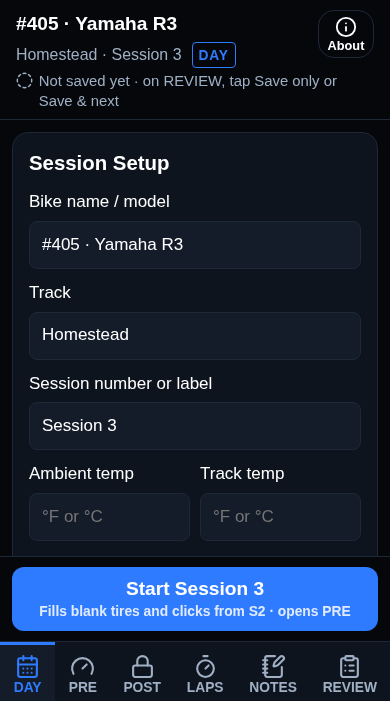
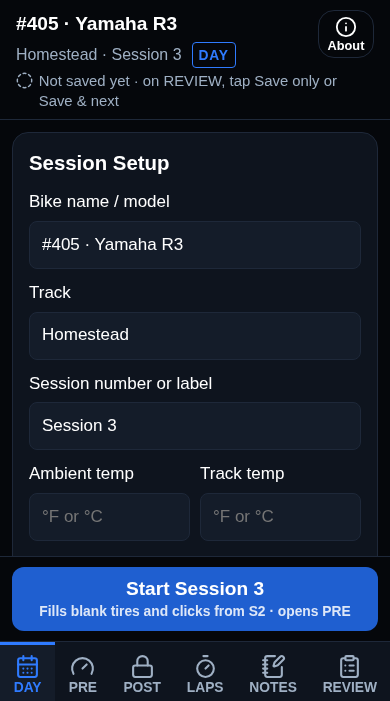
Give the solid primary its own token, and guard the fit in a browser
White on the dark theme's --blue was 3.89:1 on the solid transition button,
under the 4.5 floor. --mt-primary-fill carries the solid surface instead:
--blue in bright, #1F5FD0 in dark, which measures 5.82:1. --blue itself is
unchanged and still draws the focus ring, the active-stage line and blue text,
where it never sits behind white. Eleven fills moved; every remaining use of
--mt-primary is a border, an outline or text. All eight contrast pairs now
pass, the worst being bright's primary button at 5.13:1.

The fit test runs a real browser at 390x701 - the usable height of a tab, not
the screen - and fails if PRE's REAR row or open controls fall under the dock,
in either theme. PRE has zero pixels to spare there, and three rounds of design
work have each come within a few pixels of losing it, with nothing but a manual
measurement to catch it. Adding 80px to a margin fails the test in both themes.

The sheet's header now documents all three tokens this file adds beyond Pro's,
so Pro inherits the reasoning along with the values.

Claude-Session: https://claude.ai/code/session_01LmzceTAsvGjNnxbDzcXJyd

Changed region(s): [[0.0308, 0.8088, 0.9846, 0.8987]]

diff --git a/public/styles.css b/public/styles.css
@@ -44,7 +44,7 @@ main {
 .brand { display: flex; align-items: center; gap: 10px; }
 .brand-mark {
   width: 14px; height: 14px; border-radius: 3px;
-  background: var(--mt-primary);
+  background: var(--mt-primary-fill);
   box-shadow: 0 0 0 3px var(--mt-surface);
 }
 .brand-name { font-family: var(--mt-font); font-weight: 700; letter-spacing: 0.02em; font-size: 1.1rem; }
@@ -98,7 +98,7 @@ main {
   cursor: pointer;
 }
 .tab[aria-selected="true"] {
-  background: var(--mt-primary);
+  background: var(--mt-primary-fill);
   color: var(--mt-ground);
   border-color: var(--mt-primary);
 }
@@ -260,7 +260,7 @@ button {
   overflow-wrap: break-word;
 }
 .btn-primary {
-  background: var(--mt-primary);
+  background: var(--mt-primary-fill);
   color: var(--mt-ground);
 }
 .btn-primary:active { background: var(--mt-primary-hover); }
@@ -295,7 +295,7 @@ button {
   padding: 10px 16px;
   border: 1px solid transparent;
   border-radius: 12px;
-  background: var(--mt-primary);
+  background: var(--mt-primary-fill);
   color: var(--mt-ground);
   cursor: pointer;
   text-align: center;
@@ -618,7 +618,7 @@ select:focus { outline: 2px solid var(--mt-primary); border-color: var(--mt-prim
 .wl-shell { width: min(92vw, 560px); margin: 32px auto; }
 .wl-header { display: flex; align-items: center; gap: 12px; margin-bottom: 18px; }
 .wl-badge { border: 1px solid var(--mt-brand); color: var(--mt-brand); border-radius: 999px; padding: 2px 10px; font-size: .8rem; font-weight: 600; white-space: nowrap; }
-.wl-staging { background: var(--mt-primary); color: var(--mt-text-on-primary); font-weight: 700; text-align: center; padding: 6px 10px; border-radius: 6px; }
+.wl-staging { background: var(--mt-primary-fill); color: var(--mt-text-on-primary); font-weight: 700; text-align: center; padding: 6px 10px; border-radius: 6px; }
 .wl-footer { margin-top: 28px; padding-top: 14px; border-top: 1px solid var(--mt-border); font-size: .9rem; display: flex; gap: 18px; }
 
 .wl-availability { border: 1px solid var(--mt-border); border-radius: 8px; padding: 14px 16px; margin: 18px 0; }
@@ -666,7 +666,7 @@ select:focus { outline: 2px solid var(--mt-primary); border-color: var(--mt-prim
 .feedback-status.warn { color: var(--mt-warn); }
 .feedback-actions { margin-top: 16px; }
 #feedback-submit {
-  background: var(--mt-primary); color: var(--mt-text-on-primary); border: none; border-radius: 6px;
+  background: var(--mt-primary-fill); color: var(--mt-text-on-primary); border: none; border-radius: 6px;
   padding: 9px 18px; font-size: 1rem; font-weight: 600; cursor: pointer;
 }
 #feedback-submit:disabled { opacity: .6; cursor: default; }
@@ -1260,7 +1260,7 @@ body { padding-bottom: calc(var(--stage-bar-h) + var(--dock-h) + env(safe-area-i
   height: 1em;
   margin-right: 6px;
   vertical-align: -0.1em;
-  background: var(--mt-primary);
+  background: var(--mt-primary-fill);
   -webkit-mask: url(../icons/check.svg) center / contain no-repeat;
   mask: url(../icons/check.svg) center / contain no-repeat;
 }
@@ -1349,7 +1349,7 @@ body { padding-bottom: calc(var(--stage-bar-h) + var(--dock-h) + env(safe-area-i
   cursor: pointer;
 }
 .unit-opt + .unit-opt { border-left: 1px solid var(--mt-text-muted); }
-.unit-opt.is-on { background: var(--mt-primary); color: var(--mt-ground); }
+.unit-opt.is-on { background: var(--mt-primary-fill); color: var(--mt-ground); }
 .susp-done { margin-bottom: 14px; }
 /* Undo sits where the dock button would, at the same height. */
 .undo-post { margin: 0; }
@@ -1392,7 +1392,7 @@ body { padding-bottom: calc(var(--stage-bar-h) + var(--dock-h) + env(safe-area-i
   transition: left 120ms linear, background 120ms linear;
 }
 .switch[aria-checked="true"] .switch-track { background: var(--mt-primary-hover); border-color: var(--mt-primary); }
-.switch[aria-checked="true"] .switch-knob { left: calc(100% - 1.48rem); background: var(--mt-primary); }
+.switch[aria-checked="true"] .switch-knob { left: calc(100% - 1.48rem); background: var(--mt-primary-fill); }
 .switch:focus-visible { outline: 2px solid var(--mt-primary); outline-offset: 2px; }
 .switch[disabled] { opacity: 0.6; cursor: default; }
 .switch-label { min-width: 0; overflow-wrap: break-word; }
@@ -1696,7 +1696,7 @@ header.app-header, main { background: var(--mt-ground); }
 /* Roles. Primary is the one solid transition button, the active stage and the
    focus ring. Amber is warnings and attention only. Orange is the brand mark
    and never a control. */
-.btn-transition { background: var(--mt-primary); color: var(--mt-text-on-primary); }
+.btn-transition { background: var(--mt-primary-fill); color: var(--mt-text-on-primary); }
 .btn-transition:active { background: var(--mt-primary-hover); }
 .stage[aria-current="page"] { background: var(--mt-primary-soft); border-top-color: var(--mt-primary); color: var(--mt-primary); }
 :focus-visible { outline-color: var(--mt-focus); }
@@ -1731,7 +1731,7 @@ header.app-header, main { background: var(--mt-ground); }
   cursor: pointer;
 }
 .theme-opt + .theme-opt { border-left: 1px solid var(--mt-text-muted); }
-.theme-opt.is-on { background: var(--mt-primary); color: var(--mt-text-on-primary); }
+.theme-opt.is-on { background: var(--mt-primary-fill); color: var(--mt-text-on-primary); }
 
 /* The big readings use the numeral step from the scale. */
 .tire-num, .adj-big { font-size: var(--mt-text-numeral); }

diff --git a/tests/browser/fit.test.js b/tests/browser/fit.test.js
@@ -1,0 +1,82 @@
+// Opt-in: real layout, in a real browser. The stub DOM has no layout engine,
+// so the one thing that actually matters here - whether the rider can see the
+// REAR row and the dock at the same time - cannot be tested anywhere else.
+//
+// 390x701 is the usable height of a browser tab on a 390x844 phone, not the
+// screen height. Run with BROWSER_TESTS=1.
+import assert from "node:assert/strict";
+import test from "node:test";
+import { createServer } from "node:http";
+import { readFile } from "node:fs/promises";
+import { join, extname } from "node:path";
+import { launch } from "../helpers/cdp.js";
+
+const ENABLED = process.env.BROWSER_TESTS === "1";
+const ROOT = join(import.meta.dirname, "..", "..", "public");
+const TYPES = { ".html": "text/html", ".js": "text/javascript", ".css": "text/css",
+                ".svg": "image/svg+xml", ".json": "application/json" };
+
+async function serve() {
+  const server = createServer(async (req, res) => {
+    let path = decodeURIComponent(new URL(req.url, "http://x").pathname);
+    if (path.endsWith("/")) path += "index.html";
+    try {
+      const body = await readFile(join(ROOT, path));
+      res.writeHead(200, { "content-type": TYPES[extname(path)] || "application/octet-stream" });
+      res.end(body);
+    } catch (e) { res.writeHead(404); res.end("not found"); }
+  });
+  await new Promise((r) => server.listen(0, "127.0.0.1", r));
+  return { server, port: server.address().port };
+}
+
+const SEED = `localStorage.setItem('mototrack.sessions.v1', JSON.stringify([{
+  id:'s', savedAt:'2026-09-27T10:00:00.000Z', sessionLabel:'Session 2',
+  setup:{bike:'#405 Yamaha R3', track:'Homestead'},
+  tires:{brand:'Pirelli', model:'Supercorsa SC1', frontPre:'31.0', rearPre:'28.0'},
+  suspension:{}, laps:{}, riderFeedback:{}}]));`;
+
+const SET = (id, v) => `var e=document.getElementById('${id}');e.value=${JSON.stringify(v)};` +
+  `e.dispatchEvent(new Event('input',{bubbles:true}));`;
+
+async function measurePre(theme) {
+  const { server, port } = await serve();
+  // 701 of usable height is what a 390x844 phone leaves inside a browser tab.
+  const b = await launch({ width: 390, height: 701 });
+  try {
+    const url = `http://127.0.0.1:${port}/log/`;
+    await b.goto(url);
+    await b.run(`localStorage.clear(); ${SEED} localStorage.setItem('mt.theme.mode', ${JSON.stringify(theme)});`);
+    await b.goto(url);
+    await b.run(SET("bike", "#405 Yamaha R3") + SET("track", "Homestead") + SET("session-label", "Session 3"));
+    await b.run("document.getElementById('dock-advance').click();");
+    await b.run(SET("rear-pre", "48.0"));
+    await new Promise((r) => setTimeout(r, 400));
+    await b.run("window.scrollTo(0,0);");
+    await new Promise((r) => setTimeout(r, 200));
+    return await b.eval(`(function(){
+      var rowR = document.querySelector('#rear-pre-row').getBoundingClientRect();
+      var dock = document.getElementById('dock').getBoundingClientRect();
+      var open = document.querySelector('.tire-card--open');
+      var panel = open ? open.querySelector('.tire-panel').getBoundingClientRect() : null;
+      var needs = Math.max(rowR.bottom, panel ? panel.bottom : 0);
+      return { viewport: window.innerHeight,
+               needs: Math.round(needs), dockTop: Math.round(dock.top),
+               openTire: open ? open.getAttribute('data-tire') : null,
+               dark: document.documentElement.getAttribute('data-mt') === 'dark' };
+    })()`);
+  } finally { await b.close(); server.close(); }
+}
+
+for (const theme of ["bright", "dark"]) {
+  test(`PRE fits above the dock at 390x701 with FRONT open, in ${theme}`,
+    { skip: !ENABLED }, async () => {
+    const m = await measurePre(theme);
+    assert.equal(m.viewport, 701, "the viewport is the usable height, not the screen");
+    assert.equal(m.dark, theme === "dark", `the ${theme} theme is the one being measured`);
+    assert.equal(m.openTire, "front-pre", "FRONT is the tire still to be measured, so it opens");
+    assert.ok(m.needs <= m.dockTop,
+      `PRE needs ${m.needs}px but the dock starts at ${m.dockTop}px - ` +
+      `the REAR row or the open controls sit under the dock (${m.needs - m.dockTop}px over)`);
+  });
+}

diff --git a/public/shared/mt-tokens.css b/public/shared/mt-tokens.css
@@ -8,6 +8,18 @@
  *   - --mt-text-label is 13px, raised from Pro's 12
  *   - --mt-glove: 72px is new, for the tire rows, drag pad and +/- on PRE/POST
  *
+ * Three tokens this sheet adds that Pro's trackside flow does not define. Pro
+ * takes them with the rest of the file:
+ *   --mt-primary-fill  the SOLID primary surface. Bright uses --blue; dark uses
+ *                      #1F5FD0, because white on dark --blue (#2F7BFF) is
+ *                      3.89:1, under the 4.5:1 floor. --blue itself is
+ *                      unchanged and still draws the focus ring, the active
+ *                      stage line and blue text, where it is never a fill
+ *                      behind white.
+ *   --mt-brand         the MotoTrack orange. The header brand mark only; by
+ *                      owner decision it never appears on a control.
+ *   --mt-scrim         the dialog backdrop, slightly deeper in dark.
+ *
  * Three layers: raw tokens per theme, then the scale, then the aliases every
  * component reads. A component should never name a raw token or a literal.
  */
@@ -40,6 +52,7 @@
      backdrop, which has no equivalent in Pro's trackside flow. */
   --mt-brand: #ff6600;
   --mt-scrim: rgba(0, 0, 0, .6);
+  --primary-fill: var(--blue);
 }
 [data-mt="dark"] {
   --bg: #05070B;
@@ -64,6 +77,7 @@
   --slider: #141C29;
   --mt-brand: #ff6600;
   --mt-scrim: rgba(0, 0, 0, .72);
+  --primary-fill: #1F5FD0;
 }
 
 /* --- Scale and aliases --- */
@@ -101,6 +115,7 @@
   --mt-text-muted: var(--ink2);
   --mt-text-on-primary: var(--onblue);
   --mt-primary: var(--blue);
+  --mt-primary-fill: var(--primary-fill);
   --mt-primary-hover: var(--blue);
   --mt-primary-soft: var(--surface2);
   --mt-focus: var(--blue);

diff --git a/tests/feedback.test.js b/tests/feedback.test.js
@@ -57,7 +57,7 @@ const count = (sql, ...a) => row(sql, ...a).n;
   // one string forever would make that release process impossible. What must
   // not move is the claim - this stays a pre-1.0 beta until MotoTrack Log
   // actually declares 1.0, and that is asserted on its own below.
-  assert.equal(APP_VERSION, "0.2.0-beta.1", "canonical internal app version");
+  assert.equal(APP_VERSION, "0.2.0-beta.2", "canonical internal app version");
   assert.match(APP_VERSION, /^0\.\d+\.\d+-beta\.\d+$/,
     "still a pre-1.0 beta: declaring 1.0 is a product decision, not a version bump");
   assert.deepEqual([...FEEDBACK_STATES], ["new", "reviewing", "actionable", "closed"]);

diff --git a/src/app-version.js b/src/app-version.js
@@ -14,4 +14,4 @@
 //
 // This is an INTERNAL canonical application-version identifier, not a
 // billing/plan/version marketing claim. MotoTrack Log has not declared 1.0.
-export const APP_VERSION = "0.2.0-beta.1";
+export const APP_VERSION = "0.2.0-beta.2";

diff --git a/docs/review-artifacts/pr83/README.md b/docs/review-artifacts/pr83/README.md
@@ -81,3 +81,75 @@ Two guards caught my own mistakes while building:
 All PR #74–#81 behaviour, the protected sizes (now named: `--mt-glove`,
 `--mt-cta`, `--mt-tap-primary`, `--mt-tap`), and PR #81's sun work, which
 applies in both themes.
+
+---
+
+# Round 2 (`0.2.0-beta.2`)
+
+## 1. `--mt-primary-fill`, and the contrast table re-run
+
+A solid blue behind white text now comes from its own token. `--blue` is
+untouched and still draws the focus ring, the active-stage line and blue text,
+where it never sits behind white.
+
+| theme | `--mt-primary-fill` |
+|---|---|
+| bright | `var(--blue)` → `#0B5FFF` |
+| dark | `#1F5FD0` |
+
+Eleven solid fills moved to it: the transition button, the theme and unit
+switches, the auto-save knob, the stage-chip and waitlist surfaces, the
+feedback submit. Every remaining `--mt-primary` is a border, an outline or
+text.
+
+| theme | pair | before | after |
+|---|---|---|---|
+| bright | body text | 16.14 | 16.14 |
+| bright | muted text | 5.68 | 5.68 |
+| bright | primary button text | 5.13 | 5.13 |
+| bright | warning text | 5.68 | 5.68 |
+| dark | body text | 20.16 | 20.16 |
+| dark | muted text | 8.34 | 8.34 |
+| dark | **primary button text** | **3.89 — failed** | **5.82 — passes** |
+| dark | warning text | 8.34 | 8.34 |
+
+**Every pair is at or above 4.5:1.** The worst is bright's primary button at
+5.13.
+
+## 2. Opt-in browser fit test
+
+`tests/browser/fit.test.js`, run with `BROWSER_TESTS=1`. It drives headless
+Chromium over CDP at **390×701** — the usable height of a tab on a 390×844
+phone, not the screen height — opens PRE with FRONT still to be measured, and
+asserts the REAR row and the open controls both end above the dock, in bright
+and in dark.
+
+It has teeth: adding 80px to the section row fails both themes with the exact
+overflow in the message. Restored after the check.
+
+This is the first automated guard on a number that three rounds of design work
+have each come within a few pixels of breaking.
+
+| case | usable | needs | dock top | spare |
+|---|---|---|---|---|
+| PRE bright / dark | 701 | 556 | 556 | **0** |
+| POST bright / dark | 701 | 552 | 556 | 4 |
+| PRE bright / dark | 844 | 556 | 699 | 143 |
+| POST bright / dark | 844 | 552 | 699 | 147 |
+
+PRE still has **zero pixels** at 701. The new test is what keeps it there.
+
+## 3. `--mt-brand` and `--mt-scrim` documented
+
+The sheet's header comment now names all three additions, what each is for and
+why, so Pro inherits the reasoning with the file:
+
+- `--mt-primary-fill` — the solid primary surface, and why dark differs
+- `--mt-brand` — the orange, header mark only, never a control
+- `--mt-scrim` — the dialog backdrop, deeper in dark
+
+## Tests
+
+**289 pass / 0 fail** in the default suite (293 defined; the 4 browser tests
+are opt-in), plus **2 browser fit tests** and **2 touch-drag tests** under
+`BROWSER_TESTS=1`.
